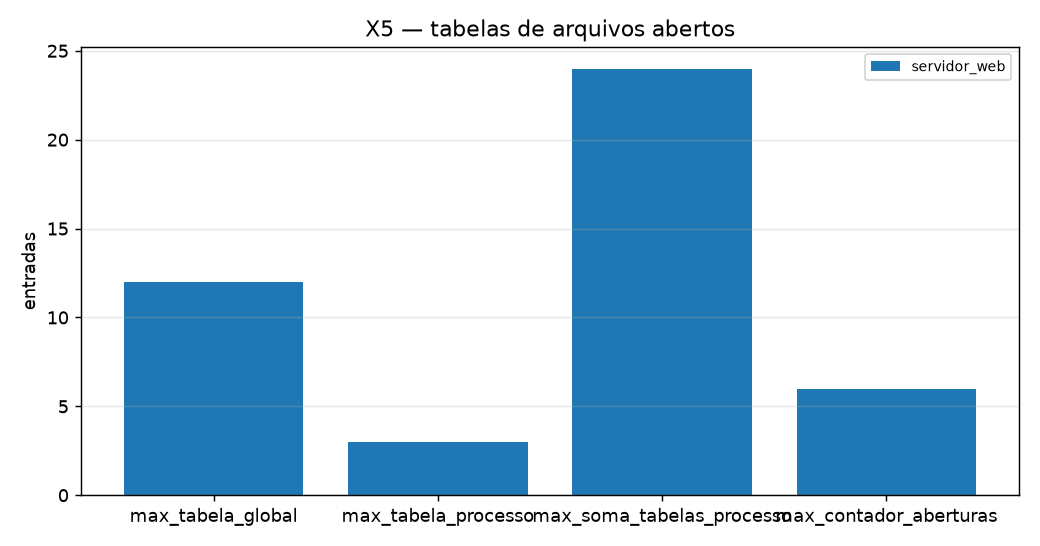
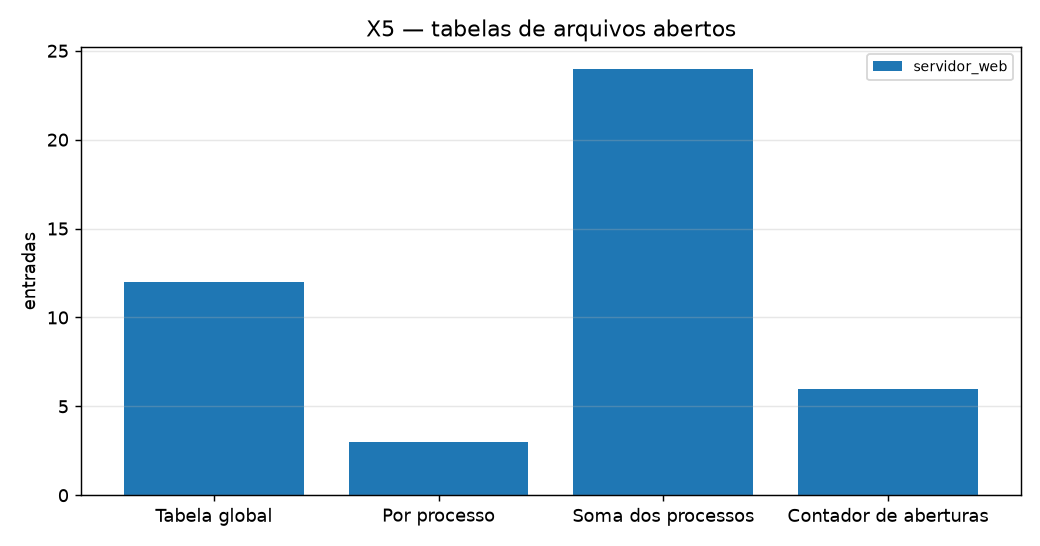
Evita sobreposição nos rótulos do gráfico de X5

diff --git a/graficos.py b/graficos.py
@@ -130,8 +130,9 @@ def main():
     if x5:
         r = x5[0]
         cols = ["max_tabela_global", "max_tabela_processo", "max_soma_tabelas_processo", "max_contador_aberturas"]
-        barras(plt, "X5_tabelas.png", "X5 — tabelas de arquivos abertos", cols, ["servidor_web"],
-               {(c, "servidor_web"): num(r[c]) for c in cols}, "entradas")
+        rotulos = ["Tabela global", "Por processo", "Soma dos processos", "Contador de aberturas"]
+        barras(plt, "X5_tabelas.png", "X5 — tabelas de arquivos abertos", rotulos, ["servidor_web"],
+               {(rotulo, "servidor_web"): num(r[c]) for c, rotulo in zip(cols, rotulos)}, "entradas")
         feitos.append("X5")
 
     x6 = [r for r in es if r["experimento"] == "X6" and r["cache"] != "nenhuma"]
